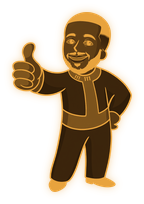
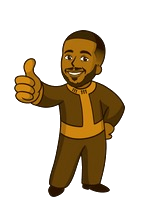
Replace the Vault Boy mascot with the owner's own cartoon
- images/mascot.png is the picture the owner sent (same 144x204 canvas,
  same thumbs-up pose), with its white background made transparent:
  soft edges with the white taken out of the rim colours, so no halo
  shows on the dark screen; the white of the eyes and teeth stays.
  Compressed losslessly: 22.3 KB (the old one was 23.6 KB).
- css: the mascot now turns around the new figure's feet (52% 97%),
  so he stays in place when he turns round mid-walk; the comment gives
  the new figure's size (about 62 px tall on screen).
- README and HANDOFF: the mascot stays (the owner had planned to remove
  it) and is now their own cartoon.

His box on the page, his moves and timings are unchanged.

Claude-Session: https://claude.ai/code/session_014zHQRdFtxGKjzviFoHoLa8

diff --git a/css/terminal.css b/css/terminal.css
@@ -145,8 +145,8 @@ button{ cursor:pointer; }
 /* The mascot stands in the empty top-right corner, beside the name and level:
    below the top bar's date, above the XP bar, right of the subtitle, even at
    the end of a walk. Under the scanlines (2) and the rest of the page (3);
-   taps go through him. The PNG has room for its glow around the figure, so
-   the figure itself is about 67px tall. */
+   taps go through him. The PNG leaves some room around the figure, so the
+   figure itself is about 62px tall. */
 .mascot{
   position:absolute; top:52px; right:26px; z-index:1;
   width:54px; height:76px;
@@ -158,7 +158,7 @@ button{ cursor:pointer; }
   .mascot{ right:22px; --mascot-step:3px; }
 }
 /* Both turn around the feet, under the body (not the image's centre). */
-.mascot-move, .mascot-img{ display:block; width:100%; height:100%; transform-origin:58% 94%; }
+.mascot-move, .mascot-img{ display:block; width:100%; height:100%; transform-origin:52% 97%; }
 
 /* Limited animation, like Vault Boy in a Pip-Boy: every move jumps between a
    few poses (steps), with long holds. Idle, he only breathes (1-2px); js/mascot.js

diff --git a/HANDOFF.md b/HANDOFF.md
@@ -87,8 +87,9 @@ needs a `migrate()` step + `sanitizeImported()` coverage + a test.
   map.js `scaleMarks()` on `zoom`; the 44 px tap area never shrinks; the open place keeps ≥1.
 - LOG: journal → proposal (XP + skills only, never SPECIAL) → Accept/Reject.
 - Look & feel: CRT vignette/flicker, scanlines, bezel with rounded corners (+ screws ≥600px), glass
-  glare, physical tab keys, recessed panels, faint "PIBBOY 3000" plate, animated amber mascot
-  (stepped Vault-Boy-style gestures per tab; MAP = "scout"), tab swing transition, 3D tilt (opt-in).
+  glare, physical tab keys, recessed panels, faint "PIBBOY 3000" plate, animated mascot (the
+  owner's own cartoon since 2026-09-27; stepped Vault-Boy-style gestures per tab; MAP = "scout"),
+  tab swing transition, 3D tilt (opt-in).
 - Sounds: boot, tick (scroll/slider), press, tab, complete, levelUp, quest, discover, sold, error,
   step (skill ±), mapSelect; power-on screen; Settings panel (⚙ in the topbar): 3D tilt, Power-on, Sound, Custom sounds, backup/import/reset, credits.
 - Data safety: dual storage, backups with dated file names (share sheet on phones), a "Last backup"
@@ -190,11 +191,13 @@ needs a `migrate()` step + `sanitizeImported()` coverage + a test.
   (ChatGPT's 8-phase "event OS" rewrite was declined in favour of the light event core, PR #9; a
   forensic "PIBBOY 2.0" audit prompt was answered with a short read-only audit instead, which found
   the data layer solid and led to the `safety-fixes` PR).
-- **The mascot**: the owner plans to remove it completely (said 2026-09-25), so mascot reactions to
-  rewards were declined. If confirmed, removing it touches: `index.html` (`#mascot`), `js/mascot.js`,
-  `images/mascot.png`, the `.mascot*` rules and keyframes in `css/terminal.css`, `js/tilt.js`
-  (its `mascot` layer), `js/events.js` (`ST.mascot.onTab`), `js/main.js` (`ST.mascot.init`),
-  `sw.js` `APP_SHELL`, README/HANDOFF.
+- **The mascot** stays: the owner had planned to remove it (2026-09-25), then replaced the Vault Boy
+  drawing with their own cartoon (2026-09-27): `images/mascot.png`, same 144×204 canvas, white
+  background cut out with soft edges, `transform-origin` moved to the new feet (52% 97%). Mascot
+  reactions to rewards were declined. Removing it would touch: `index.html` (`#mascot`),
+  `js/mascot.js`, `images/mascot.png`, the `.mascot*` rules and keyframes in `css/terminal.css`,
+  `js/tilt.js` (its `mascot` layer), `js/events.js` (`ST.mascot.onTab`), `js/main.js`
+  (`ST.mascot.init`), `sw.js` `APP_SHELL`, README/HANDOFF.
 - Deferred: "PIBBOY 2.0" roadmap (reward engine, custom skills with XP, weekly/auto quests,
   achievements, dashboard). Owner chose to polish V1 first.
 

diff --git a/README.md b/README.md
@@ -94,7 +94,7 @@ js/events.js        user actions
 js/main.js          startup
 sw.js               service worker: offline use (network first for the app, so updates show right away)
 manifest.webmanifest name, colours and icons (icons/) for installing on a phone
-images/mascot.png   the amber mascot in the top-right corner
+images/mascot.png   the mascot in the top-right corner
 data/map-style.json MAP: the map's own amber Pip-Boy style (colours, line widths, labels, by zoom)
 data/places.txt     MAP: every country, region and city (15,000 people or more), for searching
 data/regions/       MAP: one file per country with the shapes of its regions
